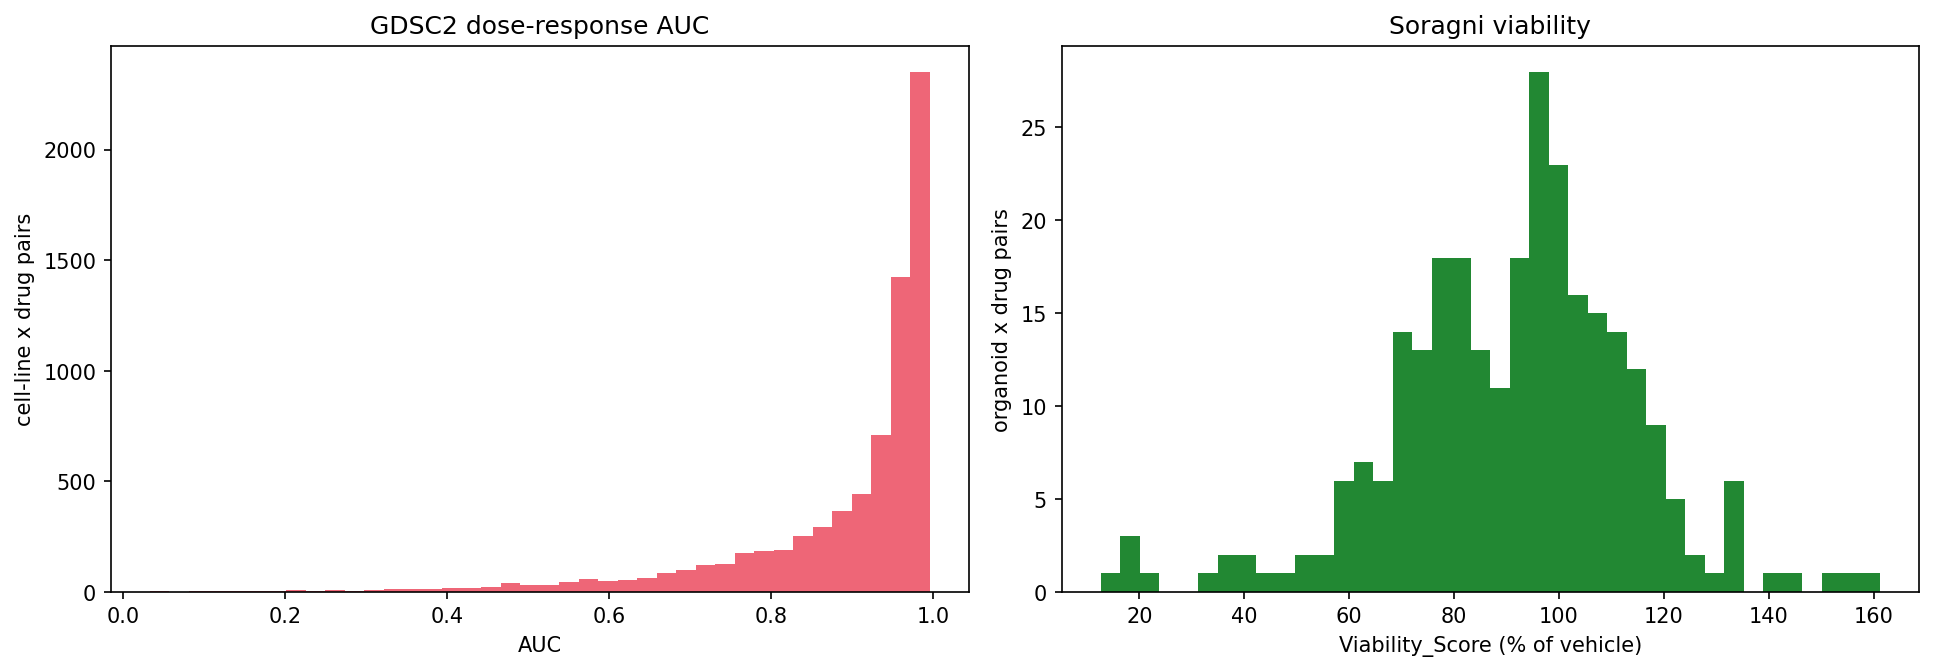
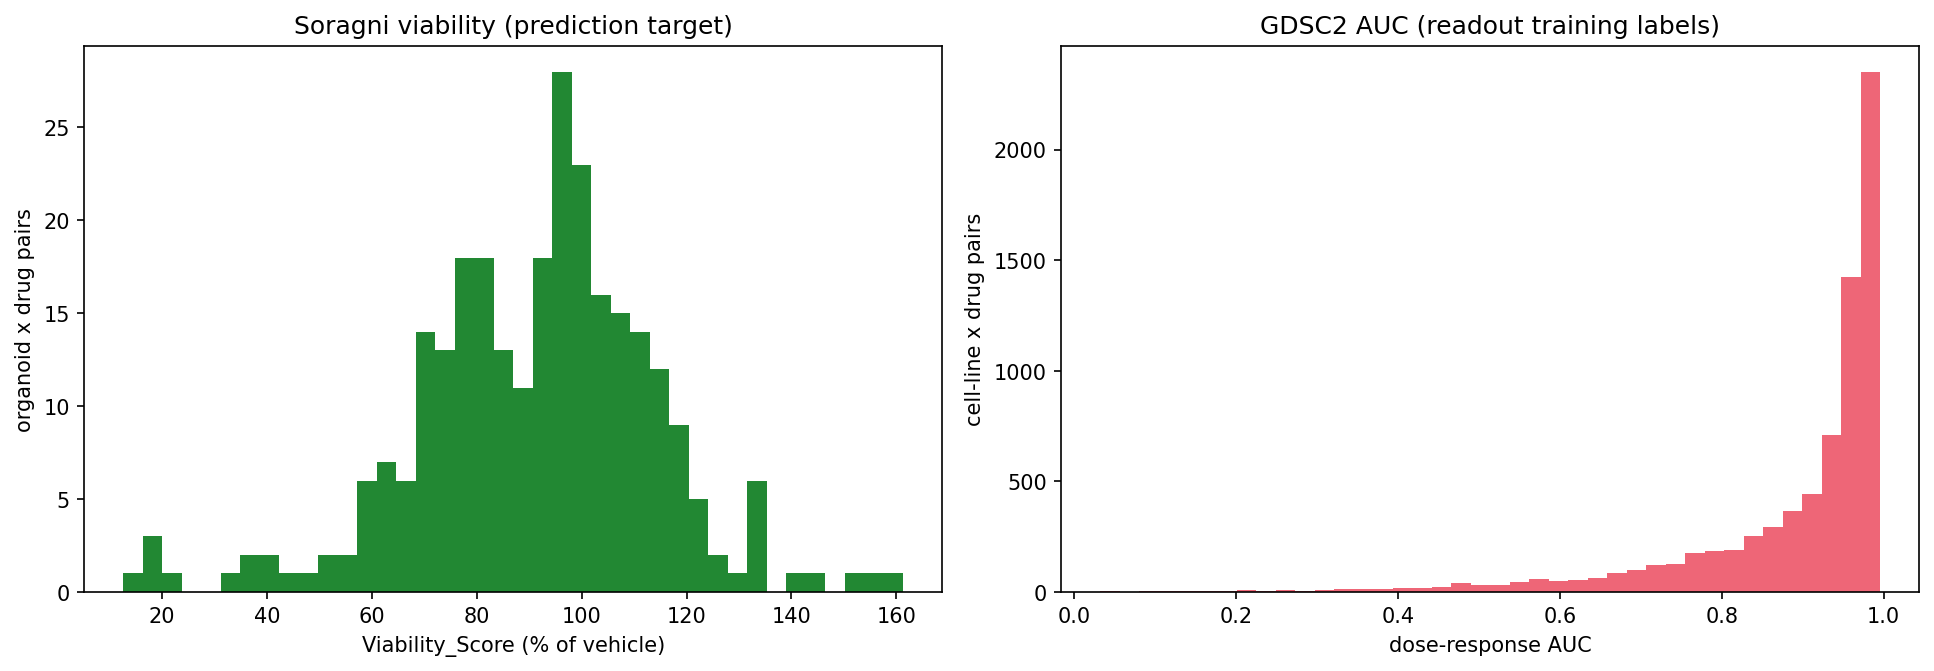
Refocus data-exploration figures on the generation inputs
GDSC2/DepMap RNA-seq is no longer a model input (only GDSC2 AUC, as readout
training labels), so drop the GDSC2 cohort-composition panel and the GDSC2<->Soragni
shared-panel figure (transfer-axis leftovers). plot_data now emits: Soragni-only
cohort composition, response distributions (Soragni viability = target; GDSC2 AUC
relabeled as readout labels), the Soragni organoid x drug viability heatmap, and a
new L1000 drug-coverage figure (which Soragni drugs have a real L1000 perturbation).
README figure block updated to match.

diff --git a/scripts/plot_data.py b/scripts/plot_data.py
@@ -1,13 +1,14 @@
 """Data-representation figures for the README -- the data, no conclusions.
 
-These plots show the raw inputs and outputs of the benchmark with no model, rho,
-or p-value annotations: cohort make-up, the response distributions, the Soragni
-organoid x drug viability matrix, and the shared-drug panel side by side. They
-exist so a reader can see what the evaluation is built on before any result.
+The raw inputs and outputs of the generation evaluation, no model / rho / p-value:
+the Soragni cohort make-up, the response distributions (Soragni viability = the
+target; GDSC2 AUC = the readout training labels), the Soragni organoid x drug
+viability matrix, and L1000 drug coverage (which Soragni drugs have a real L1000
+perturbation, so can be scored). GDSC2/DepMap RNA-seq is not a model input here, so
+no GDSC2 cohort or shared-panel figure -- GDSC2 enters only as readout labels.
 
-Optionally renders the head-invariance figure from results/head_invariance.csv
-(a grouped bar of interaction rho by head x representation) when that file exists;
-that one summarizes a produced metric table, still without prose.
+Optionally renders the head-invariance figure from results/head_invariance.csv when
+that file exists; it summarizes a produced metric table, still without prose.
 
   uv run python scripts/plot_data.py
 """
@@ -18,7 +19,6 @@ import argparse
 from collections import Counter
 from pathlib import Path
 
-import numpy as np
 import pandas as pd
 from _plotting import plt, savefig
 
@@ -32,34 +32,31 @@ def _subtype_counts(bundle) -> Counter:
     return Counter(p.subtype or "unknown" for p in bundle.patients)
 
 
-def plot_cohort_composition(sb, gb, out_dir: Path) -> None:
-    fig, axes = plt.subplots(1, 2, figsize=(13, 5))
-    for ax, (name, bundle) in zip(
-        axes, (("GDSC2 sarcoma cell lines", gb), ("Soragni PDTOs", sb)), strict=True
-    ):
-        counts = _subtype_counts(bundle).most_common()
-        labels = [c[0] for c in counts]
-        vals = [c[1] for c in counts]
-        ax.barh(range(len(labels)), vals, color="#4477aa")
-        ax.set_yticks(range(len(labels)))
-        ax.set_yticklabels(labels, fontsize=8)
-        ax.invert_yaxis()
-        ax.set_xlabel("patients / lines")
-        ax.set_title(f"{name} (n={sum(vals)})")
+def plot_cohort_composition(sb, out_dir: Path) -> None:
+    counts = _subtype_counts(sb).most_common()
+    labels = [c[0] for c in counts]
+    vals = [c[1] for c in counts]
+    fig, ax = plt.subplots(figsize=(7, 0.4 * len(labels) + 1.5))
+    ax.barh(range(len(labels)), vals, color="#4477aa")
+    ax.set_yticks(range(len(labels)))
+    ax.set_yticklabels(labels, fontsize=8)
+    ax.invert_yaxis()
+    ax.set_xlabel("patients")
+    ax.set_title(f"Soragni PDTO cohort (n={sum(vals)} patients)")
     fig.tight_layout()
     savefig(fig, out_dir / "cohort_composition.png")
 
 
 def plot_response_distributions(ds, dg, out_dir: Path) -> None:
     fig, axes = plt.subplots(1, 2, figsize=(13, 4.6))
-    axes[0].hist(dg["y"].to_numpy(float), bins=40, color="#ee6677")
-    axes[0].set_title("GDSC2 dose-response AUC")
-    axes[0].set_xlabel("AUC")
-    axes[0].set_ylabel("cell-line x drug pairs")
-    axes[1].hist(ds["y"].to_numpy(float), bins=40, color="#228833")
-    axes[1].set_title("Soragni viability")
-    axes[1].set_xlabel("Viability_Score (% of vehicle)")
-    axes[1].set_ylabel("organoid x drug pairs")
+    axes[0].hist(ds["y"].to_numpy(float), bins=40, color="#228833")
+    axes[0].set_title("Soragni viability (prediction target)")
+    axes[0].set_xlabel("Viability_Score (% of vehicle)")
+    axes[0].set_ylabel("organoid x drug pairs")
+    axes[1].hist(dg["y"].to_numpy(float), bins=40, color="#ee6677")
+    axes[1].set_title("GDSC2 AUC (readout training labels)")
+    axes[1].set_xlabel("dose-response AUC")
+    axes[1].set_ylabel("cell-line x drug pairs")
     fig.tight_layout()
     savefig(fig, out_dir / "response_distributions.png")
 
@@ -78,24 +75,28 @@ def plot_soragni_heatmap(ds, out_dir: Path) -> None:
     savefig(fig, out_dir / "soragni_response_heatmap.png")
 
 
-def plot_shared_panel(ds_cid, dg_cid, sb, out_dir: Path) -> None:
-    shared = sorted(set(ds_cid["drug"].astype(str)) & set(dg_cid["drug"].astype(str)))
+def plot_l1000_coverage(ds_cid, sb, repo: Path, out_dir: Path) -> None:
+    """Which Soragni drugs have a real L1000 perturbation (so can be scored)."""
+    from fmharness.l1000 import soragni_pert_map
+
+    covered = set(soragni_pert_map(repo).values())  # Soragni PubChem CIDs present in L1000
     cid2name = {str(a.pubchem_cid): a.drug_name for a in sb.drug_assays if a.pubchem_cid}
-    g_auc = dg_cid[dg_cid["drug"].astype(str).isin(shared)].groupby("drug")["y"].mean()
-    s_via = ds_cid[ds_cid["drug"].astype(str).isin(shared)].groupby("drug")["y"].mean()
-    labels = [cid2name.get(str(c), str(c)) for c in shared]
-    yidx = np.arange(len(shared))
-    fig, axes = plt.subplots(1, 2, figsize=(12, 0.4 * len(shared) + 2), sharey=True)
-    axes[0].barh(yidx, [g_auc.get(c, np.nan) for c in shared], color="#ee6677")
-    axes[0].set_yticks(yidx)
-    axes[0].set_yticklabels(labels, fontsize=8)
-    axes[0].invert_yaxis()
-    axes[0].set_xlabel("GDSC2 mean AUC")
-    axes[1].barh(yidx, [s_via.get(c, np.nan) for c in shared], color="#228833")
-    axes[1].set_xlabel("Soragni mean viability")
-    fig.suptitle(f"Shared drug panel (n={len(shared)} PubChem CIDs)")
+    cids = sorted(set(ds_cid["drug"].astype(str)))
+    rows = sorted(
+        ((cid2name.get(c, c), c in covered) for c in cids), key=lambda r: (not r[1], r[0])
+    )
+    names = [r[0] for r in rows]
+    colors = ["#228833" if r[1] else "#cccccc" for r in rows]
+    fig, ax = plt.subplots(figsize=(7, 0.32 * len(names) + 1.5))
+    ax.barh(range(len(names)), [1] * len(names), color=colors)
+    ax.set_yticks(range(len(names)))
+    ax.set_yticklabels(names, fontsize=8)
+    ax.invert_yaxis()
+    ax.set_xticks([])
+    n_cov = sum(r[1] for r in rows)
+    ax.set_title(f"Soragni drugs covered by L1000 ({n_cov}/{len(names)}); green = covered")
     fig.tight_layout()
-    savefig(fig, out_dir / "shared_panel.png")
+    savefig(fig, out_dir / "l1000_coverage.png")
 
 
 def plot_head_invariance(csv: Path, out_dir: Path) -> None:
@@ -125,14 +126,16 @@ def main() -> None:
     sb = load_tranche("sarcoma", repo)
     gb = load_tranche("gdscv2", repo, cancer_type_filter=GDSC_SARCOMA)
     _, ds = build_sample_design(sb, "tumor", "viability")  # drug = Soragni name
-    _, dg = build_sample_design(gb, "all", "auc")
+    _, dg = build_sample_design(gb, "all", "auc")  # GDSC2 AUC = readout training labels
     _, ds_cid = build_sample_design(sb, "tumor", "viability", drug_key="pubchem_cid")
-    _, dg_cid = build_sample_design(gb, "all", "auc", drug_key="pubchem_cid")
 
-    plot_cohort_composition(sb, gb, out_dir)
+    plot_cohort_composition(sb, out_dir)
     plot_response_distributions(ds, dg, out_dir)
     plot_soragni_heatmap(ds, out_dir)
-    plot_shared_panel(ds_cid, dg_cid, sb, out_dir)
+    try:
+        plot_l1000_coverage(ds_cid, sb, repo, out_dir)
+    except Exception as e:
+        print(f"(skipped l1000_coverage figure: {e})")
 
     hi = repo / "results" / "head_invariance.csv"
     if hi.exists():

diff --git a/README.md b/README.md
@@ -63,12 +63,12 @@ Every model implements one `ModelAdapter` ([src/fmharness/models/adapter.py](src
 - **L1000** (LINCS GSE92742) — drug-treated + DMSO bulk profiles; the perturbation context (prompt) and the readout-validation cohort
 - **GDSC2** sarcoma cell lines (DepMap RNA-seq + GDSC2 screen) — the viability labels that train the supervised readouts
 
-The cohorts and the shared drug panel (the raw inputs, no model):
+The Soragni cohort, the response distributions, and L1000 drug coverage (the raw inputs, no model):
 
-![Cohort composition](docs/figures/cohort_composition.png)
+![Soragni cohort composition](docs/figures/cohort_composition.png)
 ![Response distributions](docs/figures/response_distributions.png)
 ![Soragni organoid x drug viability](docs/figures/soragni_response_heatmap.png)
-![Shared drug panel](docs/figures/shared_panel.png)
+![L1000 drug coverage](docs/figures/l1000_coverage.png)
 
 Regenerate with `uv run python scripts/plot_data.py`.
 